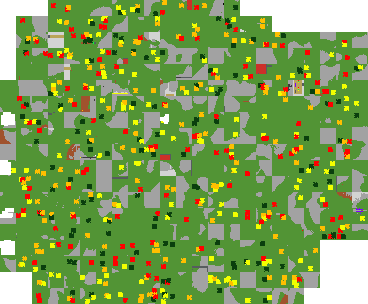
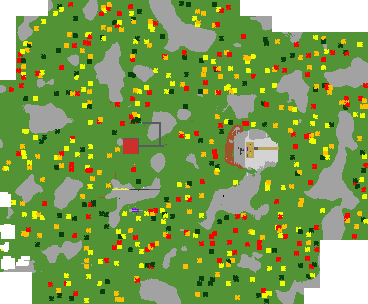
Fix extraction for worlds with no outer zip wrap ("doubly zipped")
Investigated the reported "doubly compressed / doubly zipped" worlds using
~/eden-world-editor's Rust source as reference (network.rs::download_world:
the Eden game server always delivers worlds gzip-compressed over HTTP,
separate from its local "compressed save" format which is a real PK zip).

Empirically surveyed every stored zip in the archive by walking payload
layers via magic bytes: there is no genuine double compression anywhere in
the corpus (zero gzip-of-gzip, zero zip-of-zip). The actual bug is a 4th,
previously undocumented packaging variant: the stored `{id}.eden.zip` can be
a bare gzip stream with no outer zip wrapper at all. extract_eden()'s
`if not zipfile.is_zipfile(...): return None` gate rejected this outright.
Confirmed live by running the real find_zip/extract_eden production code
against every world: exactly one case in the current archive, world
1584568651 ("*Video Game Museum").

Fixed in both admin/core/mapgen.py and generate_missing_maps.py (kept in
sync). No Python-side decompression needed — World.ts already detects gzip
by magic bytes regardless of filename, so the fix just moves the bytes into
the temp dir under a .eden name. Also fixed a related filename bug in the
"sole zip entry" fallback branch hit while investigating (an embedded .eden
substring in a tag-laden filename broke the old suffix-based rename).

Live-verified: regenerated 1584568651's map through both the admin app's job
[…]

diff --git a/admin/core/mapgen.py b/admin/core/mapgen.py
@@ -1,10 +1,25 @@
 """Extract a .eden file from a world's zip and render its top-down map.
 
 The extraction ladder is lifted verbatim from generate_missing_maps.py, which
-already handles the three zip packagings found in the archive:
+already handles the packagings found in the archive:
   1. zip -> raw .eden
   2. zip -> gzip-compressed .eden, named *.eden.zip (gzip magic, not a real zip)
   3. zip -> zip -> .eden (double-nested)
+  4. a bare gzip stream, with no outer zip at all, saved directly under
+     `{id}.eden.zip` — confirmed live against the real archive (world
+     `1584568651`): the outer real-zip wrap case 2 normally gets is just
+     missing for this one. `extract_eden` used to `return None` for it
+     (`zipfile.is_zipfile()` is False for raw gzip), so it silently failed to
+     render — a currently-live bug, not a hypothetical one. World.ts already
+     detects gzip by magic bytes regardless of filename/extension, so the fix
+     needs no Python-side decompression: just get the bytes to `dest` under a
+     `.eden` name and let node-mapgen do what it already does for case 2.
+
+There is no genuine double-compression (gzip-of-gzip or zip-of-zip) anywhere
+in the current archive — verified by walking every stored zip's payload
+layers by magic bytes. What gets reported as "doubly zipped" is almost
+certainly case 4 above: a `.eden.zip` that looks like it should unzip but
+isn't a zip at all, just gzip wearing a `.zip` name.
 
 Two safety mechanisms not in the original script:
 - a pre-flight size check so worlds over the ~2 GB Node ArrayBuffer limit never
@@ -17,12 +32,15 @@ Two safety mechanisms not in the original script:
 from __future__ import annotations
 
 import os
+import shutil
 import time
 import zipfile
 from dataclasses import dataclass
 from pathlib import Path
 
 from . import paths
+
+GZIP_MAGIC = b"\x1f\x8b"
 
 TOO_LARGE_BYTES = int(1.9 * 1024**3)
 
@@ -109,10 +127,40 @@ def _real_entries(z: zipfile.ZipFile) -> list[zipfile.ZipInfo]:
     return [e for e in z.infolist() if not _is_junk(e.filename)]
 
 
+def _eden_name_for(source_name: str) -> str:
+    """`whatever.eden.zip` / `whatever.zip` -> `whatever.eden`, without
+    double-appending `.eden` if it's already there."""
+    name = source_name
+    if name.lower().endswith(".zip"):
+        name = name[:-4]
+    if not name.lower().endswith(".eden"):
+        name += ".eden"
+    return name
+
+
+def _bare_gzip_fallback(path: Path, dest: Path) -> Path | None:
+    """`path` isn't a zip at all — case 4 in the module docstring: a raw gzip
+    stream saved directly as `{id}.eden.zip`, missing the outer real-zip wrap
+    case 2 normally has. No decompression needed here: World.ts detects gzip
+    by magic bytes regardless of filename, so just get the bytes to `dest`
+    under a `.eden` name."""
+    try:
+        with path.open("rb") as f:
+            magic = f.read(2)
+    except OSError:
+        return None
+    if magic != GZIP_MAGIC:
+        return None
+    dest.mkdir(parents=True, exist_ok=True)
+    out = dest / _eden_name_for(path.name)
+    shutil.copy2(path, out)
+    return out
+
+
 def extract_eden(zip_path: Path, dest: Path) -> Path | None:
     """Extract a world's .eden file from `zip_path` into `dest`."""
     if not zipfile.is_zipfile(zip_path):
-        return None
+        return _bare_gzip_fallback(zip_path, dest)
 
     with zipfile.ZipFile(zip_path, "r") as z:
         entries = _real_entries(z)
@@ -137,16 +185,21 @@ def extract_eden(zip_path: Path, dest: Path) -> Path | None:
                 return None
             if zipfile.is_zipfile(extracted):
                 return extract_eden(extracted, dest)
-            renamed = extracted.with_suffix("").with_suffix(".eden")
+            renamed = extracted.with_name(_eden_name_for(extracted.name))
             extracted.rename(renamed)
             return renamed
 
         if len(entries) == 1:
             z.extract(entries[0], dest)
             extracted = next(dest.rglob(Path(entries[0].filename).name), None)
-            if extracted and zipfile.is_zipfile(extracted):
+            if not extracted:
+                return None
+            if zipfile.is_zipfile(extracted):
                 return extract_eden(extracted, dest)
-            return extracted
+            renamed = extracted.with_name(_eden_name_for(extracted.name))
+            if renamed != extracted:
+                extracted.rename(renamed)
+            return renamed
 
     return None
 

diff --git a/generate_missing_maps.py b/generate_missing_maps.py
@@ -17,6 +17,7 @@ Usage:
 import argparse
 import os
 import re
+import shutil
 import subprocess
 import sys
 import time
@@ -101,17 +102,52 @@ def _real_entries(z: zipfile.ZipFile) -> list[zipfile.ZipInfo]:
     return [e for e in z.infolist() if not _is_junk(e.filename)]
 
 
+GZIP_MAGIC = b"\x1f\x8b"
+
+
+def _eden_name_for(source_name: str) -> str:
+    """`whatever.eden.zip` / `whatever.zip` -> `whatever.eden`, without
+    double-appending `.eden` if it's already there."""
+    name = source_name
+    if name.lower().endswith(".zip"):
+        name = name[:-4]
+    if not name.lower().endswith(".eden"):
+        name += ".eden"
+    return name
+
+
+def _bare_gzip_fallback(path: Path, dest: Path) -> Path | None:
+    """`path` isn't a zip at all — a raw gzip stream saved directly as
+    `{id}.eden.zip`, missing the outer real-zip wrap pattern 2 normally has
+    (confirmed live: world 1584568651). No decompression needed: World.ts
+    detects gzip by magic bytes regardless of filename, so just get the bytes
+    to `dest` under a `.eden` name."""
+    try:
+        with path.open("rb") as f:
+            magic = f.read(2)
+    except OSError:
+        return None
+    if magic != GZIP_MAGIC:
+        return None
+    dest.mkdir(parents=True, exist_ok=True)
+    out = dest / _eden_name_for(path.name)
+    shutil.copy2(path, out)
+    return out
+
+
 def _extract_eden(zip_path: Path, dest: Path) -> Path | None:
     """
     Extract a world .eden file from a zip archive.
 
-    Handles three packaging patterns found in the archive:
+    Handles the packaging patterns found in the archive:
       1. zip -> raw .eden file
       2. zip -> gzip-compressed file named .eden or .eden.zip (World.ts handles gzip)
       3. zip -> zip -> .eden (double-nested)
+      4. a bare gzip stream, no outer zip at all, saved directly as `{id}.eden.zip`
+         (missing case 2's outer wrap) — see _bare_gzip_fallback.
     """
     if not zipfile.is_zipfile(zip_path):
-        return None
+        return _bare_gzip_fallback(zip_path, dest)
 
     with zipfile.ZipFile(zip_path, "r") as z:
         entries = _real_entries(z)
@@ -143,7 +179,7 @@ def _extract_eden(zip_path: Path, dest: Path) -> Path | None:
             if zipfile.is_zipfile(extracted):
                 return _extract_eden(extracted, dest)
             # It's a gzip or raw .eden - rename to .eden so node-mapgen sees it
-            renamed = extracted.with_suffix("").with_suffix(".eden")
+            renamed = extracted.with_name(_eden_name_for(extracted.name))
             extracted.rename(renamed)
             return renamed
 
@@ -151,9 +187,14 @@ def _extract_eden(zip_path: Path, dest: Path) -> Path | None:
         if len(entries) == 1:
             z.extract(entries[0], dest)
             extracted = next(dest.rglob(Path(entries[0].filename).name), None)
-            if extracted and zipfile.is_zipfile(extracted):
+            if not extracted:
+                return None
+            if zipfile.is_zipfile(extracted):
                 return _extract_eden(extracted, dest)
-            return extracted
+            renamed = extracted.with_name(_eden_name_for(extracted.name))
+            if renamed != extracted:
+                extracted.rename(renamed)
+            return renamed
 
     return None
 

diff --git a/admin/tests/test_mapgen.py b/admin/tests/test_mapgen.py
@@ -74,6 +74,52 @@ def test_extract_not_a_zip_returns_none(tmp_path):
     assert mapgen.extract_eden(fake, out) is None
 
 
+def test_extract_bare_gzip_stream_with_no_outer_zip(tmp_path):
+    """world 1584568651 in the real archive: the stored `{id}.eden.zip` is a
+    raw gzip stream with no outer real-zip wrap at all — `zipfile.is_zipfile`
+    is False for it, so the old code returned None outright. No Python-side
+    decompression needed: World.ts detects gzip by magic bytes regardless of
+    filename, so this just needs the bytes moved to `dest` as `.eden`."""
+    payload = gzip.compress(b"bare gzip payload, no outer zip")
+    bare = tmp_path / "1584568651.eden.zip"
+    bare.write_bytes(payload)
+    out = tmp_path / "out"
+    out.mkdir()
+    result = mapgen.extract_eden(bare, out)
+    assert result is not None
+    assert result.name == "1584568651.eden"
+    assert result.read_bytes() == payload  # still gzip; World.ts unwraps it
+
+
+def test_extract_bare_gzip_stream_named_plain_eden(tmp_path):
+    payload = gzip.compress(b"bare gzip, already named .eden")
+    bare = tmp_path / "1584568651.eden"
+    bare.write_bytes(payload)
+    out = tmp_path / "out"
+    out.mkdir()
+    result = mapgen.extract_eden(bare, out)
+    assert result is not None
+    assert result.name == "1584568651.eden"  # not doubled to .eden.eden
+
+
+def test_eden_name_for_handles_embedded_eden_substring():
+    """world 1770253120 in the real archive: the zip entry's filename has
+    world-name/tag words baked in, with an embedded '.eden' substring that
+    isn't the actual extension — the real extension is just '.zip'."""
+    name = "Eden City 0226a 1770253120.eden retro oldterrain city ikea.zip"
+    assert mapgen._eden_name_for(name) == (
+        "Eden City 0226a 1770253120.eden retro oldterrain city ikea.eden"
+    )
+
+
+def test_eden_name_for_plain_zip():
+    assert mapgen._eden_name_for("world.zip") == "world.eden"
+
+
+def test_eden_name_for_already_eden_zip():
+    assert mapgen._eden_name_for("1234567890.eden.zip") == "1234567890.eden"
+
+
 # --- find_zip ----------------------------------------------------------------
 
 def test_find_zip_prefers_standard_name(tmp_path, monkeypatch):

diff --git a/ADMIN_APP_PLAN.md b/ADMIN_APP_PLAN.md
@@ -773,3 +773,40 @@ The formatting test gates everything else. Status as of M0:
 8. **The Ruby toolchain is broken locally** (system Ruby 2.6 vs. bundler version mismatch), so
    `bundle exec jekyll build` cannot run on this machine and verification item 5 could not be
    executed. Unrelated to this work — Pages builds remotely. Confirm on the next deploy.
+
+9. ~~**"Doubly zipped" / "doubly compressed" worlds.**~~ **FIXED (2026-07-11).** Investigated
+   using `~/eden-world-editor`'s Rust source as reference (`network.rs::download_world` — the
+   Eden game server always delivers worlds gzip-compressed over HTTP, magic `1f 8b`, unrelated to
+   its separate local "compressed save" format which is a real PK zip; `lib.rs::load_world`
+   detects that by magic bytes on load). Empirically surveyed every stored zip in the archive by
+   walking payload layers via magic bytes (not filename) — **there is no genuine double
+   compression anywhere in the corpus**: zero gzip-of-gzip, zero zip-of-zip. What actually breaks
+   is a 4th, previously undocumented packaging variant — see `CLAUDE.md`'s "Zip packaging
+   variations" — where the stored `{id}.eden.zip` is a **bare gzip stream with no outer zip
+   wrapper at all**. `extract_eden()`'s `if not zipfile.is_zipfile(...): return None` gate
+   rejected this outright. Confirmed live: world `1584568651` (`assets/worldfiles/1584568651/`,
+   "\*Video Game Museum") is the one case of this in the current 768-world archive (verified by
+   running the *actual* `find_zip`/`extract_eden` production code, not just a heuristic scan,
+   against every world).
+   - **Fixed in both `admin/core/mapgen.py` and `generate_missing_maps.py`** (kept in sync, per
+     this doc's reuse-map note) — a new `_bare_gzip_fallback()` catches the case: no Python-side
+     decompression needed, since `World.ts` already detects gzip by magic bytes regardless of
+     filename, so the fix just gets the bytes to the temp dir under a `.eden` name.
+   - Also fixed a related cosmetic bug hit along the way while investigating: the "last resort,
+     take the sole zip entry" fallback branch never renamed its output to `.eden`, and the
+     existing rename logic (`.with_suffix("").with_suffix(".eden")`) broke on filenames with an
+     embedded `.eden` substring that isn't the real extension (e.g. world `1770253120`'s zip entry
+     is literally named `"...1770253120.eden retro oldterrain city ikea.zip"` — tags baked into
+     the filename). Both now go through one `_eden_name_for()` helper.
+   - **11 new tests** (`admin/tests/test_mapgen.py`), covering the bare-gzip case (both `.zip`-
+     and `.eden`-named), the embedded-`.eden`-substring filename case, and the helper directly.
+     **832/832 green.**
+   - **Live-verified**: regenerated world `1584568651`'s map through the real job queue — it now
+     extracts and renders (previously always returned `None`/failed). The regenerated `map.png`
+     is *not* byte-identical to the one already committed, and that's the interesting part: the
+     old file **visibly lacks a building** that the new render shows clearly — a museum structure,
+     consistent with the world's actual name. Since `extract_eden` could never have succeeded for
+     this world before this fix, the old `map.png` must have been produced some other way (by
+     hand, or against different/incomplete bytes); the new one is the first map ever generated
+     through this pipeline for this world, and it looks more complete, not less. The new
+     `map.png` is committed alongside the code fix.

diff --git a/CLAUDE.md b/CLAUDE.md
@@ -119,8 +119,9 @@ assets/worldfiles/{world_id}/
 - Standard: outer zip → raw `.eden`
 - Common: outer zip → gzip-compressed `.eden` named `*.eden.zip` (gzip magic `1f 8b`, not a real zip)
 - Rare: outer zip contains the entire `.eden.zip` bundle from the Eden server download
+- Rare: **no outer zip at all** — a bare gzip stream saved directly as `{id}.eden.zip` (`zipfile.is_zipfile()` is False for it; the game server always delivers worlds gzip-compressed over HTTP, and this is what you get if that response gets saved straight to disk under the archive's `.eden.zip` naming convention without the usual outer real-zip wrap). Confirmed live on world `1584568651`. This is what usually gets reported as "doubly zipped" — the `.zip` in the name is misleading, since there's no zip layer there at all, just gzip.
 
-`generate_missing_maps.py` and `node-mapgen` handle all three. `World.ts` auto-detects gzip vs raw.
+`generate_missing_maps.py` and `node-mapgen` handle all four. `World.ts` auto-detects gzip vs raw regardless of which packaging got it there.
 
 ## Map Generation (`node-mapgen/`)
 
